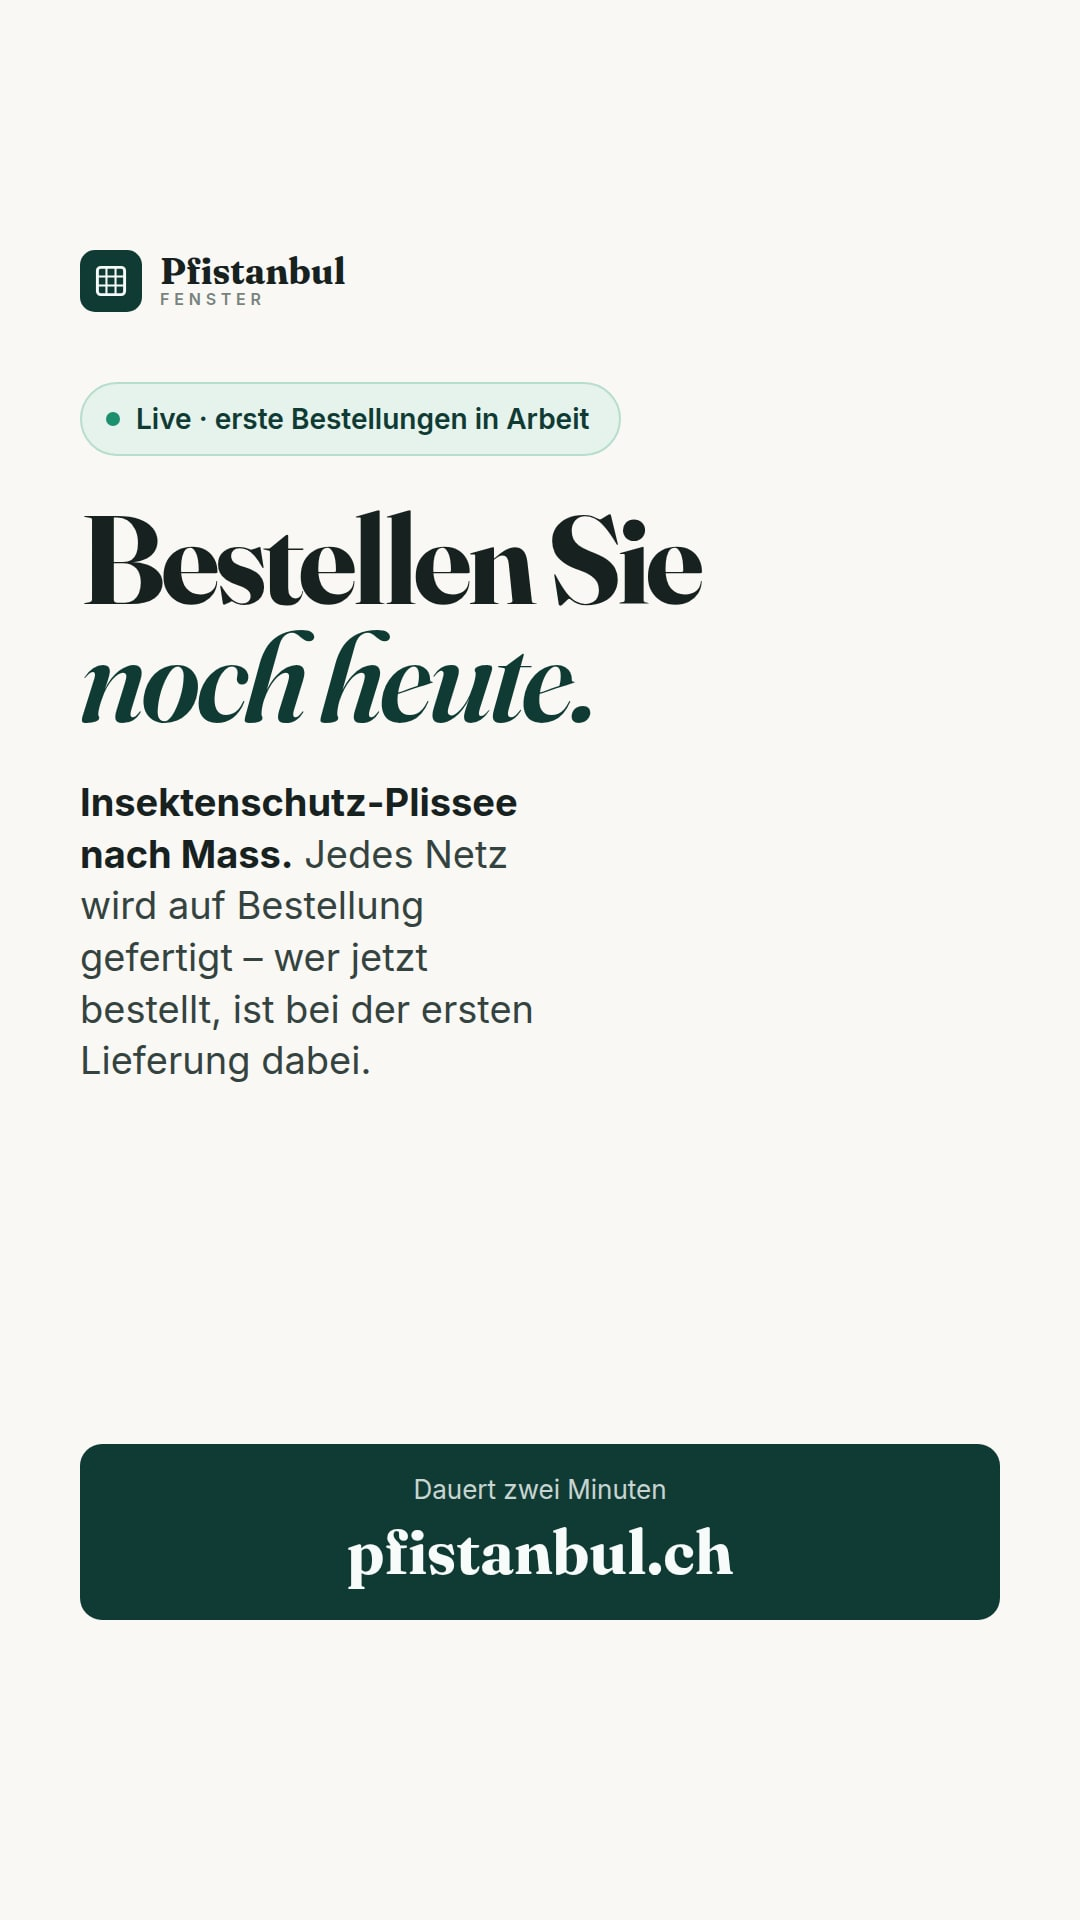
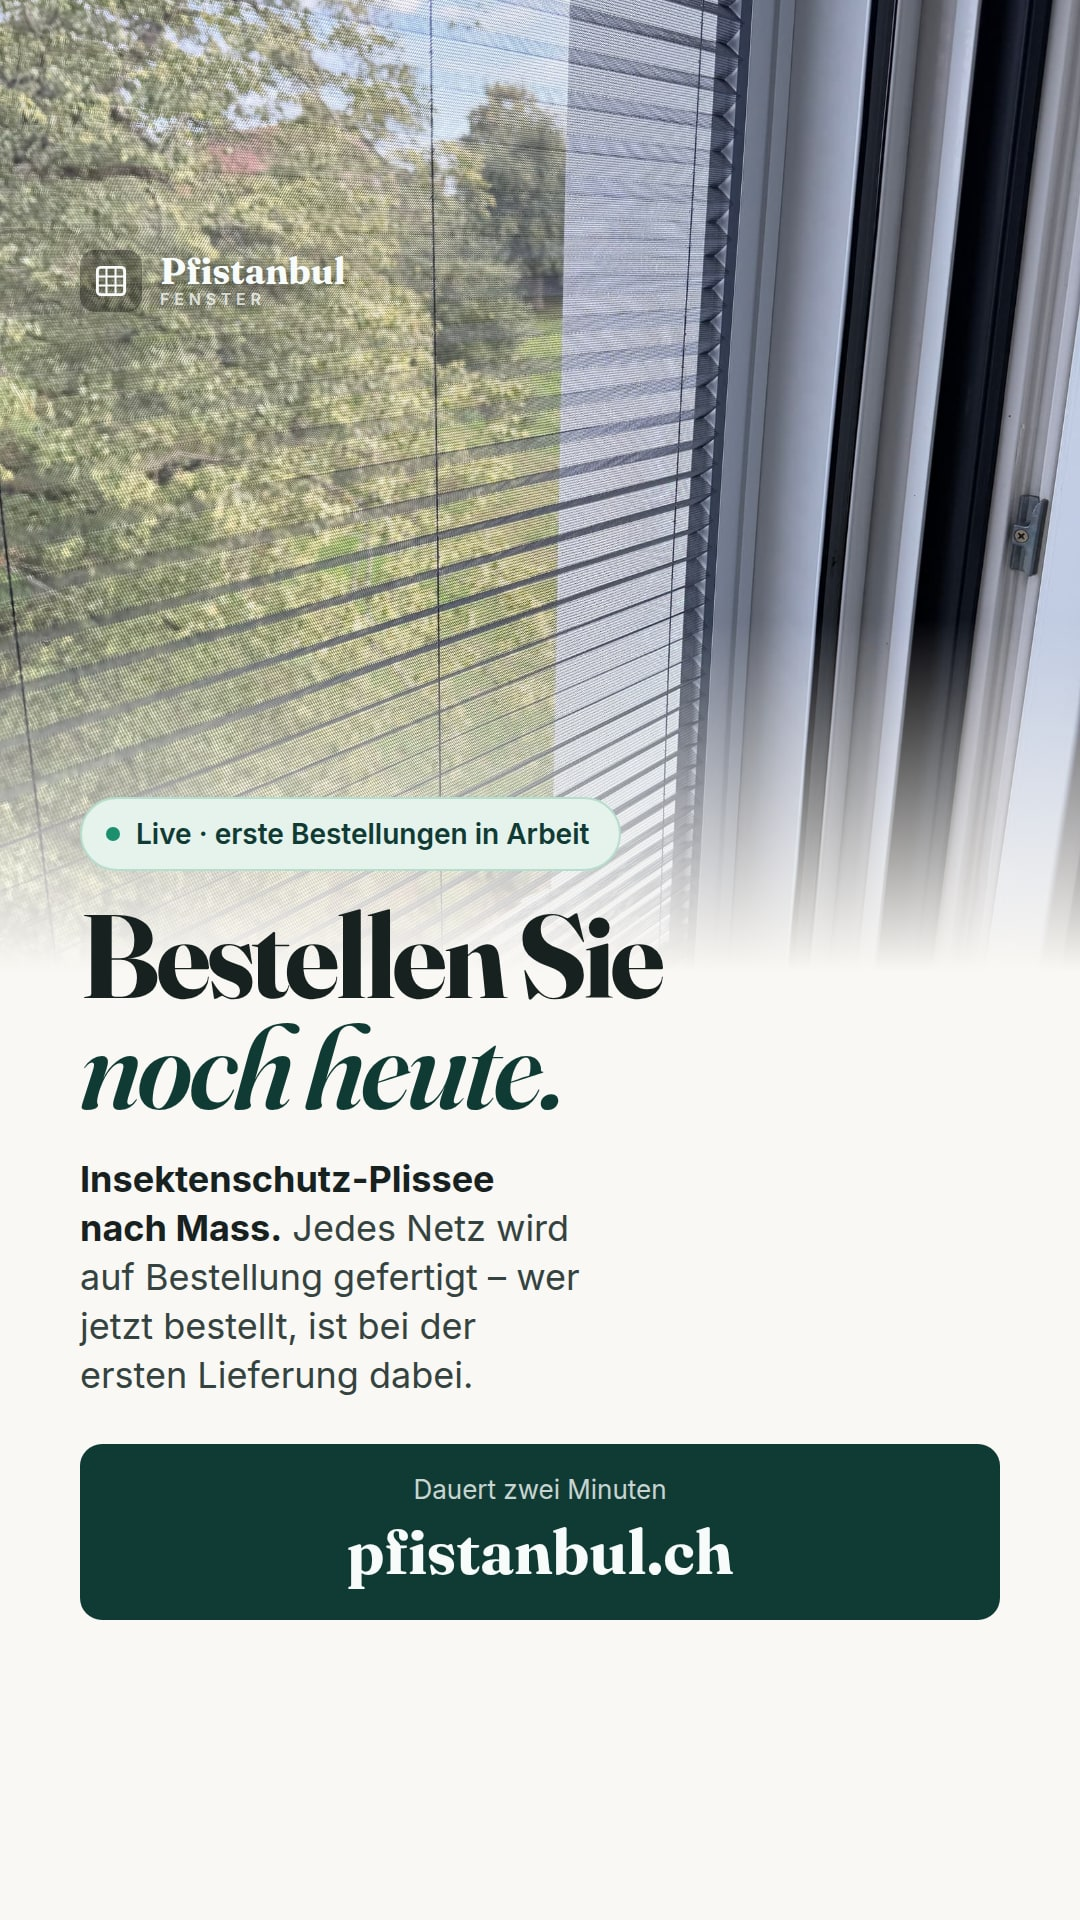
Story "Bestellen Sie noch heute" mit Gewebeaufnahme
Ohne Bild ist bis zur dritten Zeile unklar, wovon die Rede ist - der
Kontoname sagt niemandem etwas. Die Makroaufnahme laeuft nach unten in
den hellen Grund aus, damit die Schrift auf ruhiger Flaeche steht; ein
harter Schnitt wuerde die Seite halbieren.

Claude-Session: https://claude.ai/code/session_01UiUFn7ykifp8b7M2ApYf3F

diff --git a/instagram/heute-bestellen.html b/instagram/heute-bestellen.html
@@ -3,32 +3,48 @@
 <link rel="stylesheet" href="story.css">
 <style>
 /*
- * Dieselbe Botschaft, nur ohne Foto: die Aufforderung ganz gross und sonst
- * nichts. Zwischen zwei Fotostories eine optische Pause - drei Bilder
- * hintereinander verwischen sonst zu einem.
+ * Die Aufforderung als Schlagzeile, darueber die Gewebeaufnahme.
  *
- * Die Statuszeile oben traegt "wir sind live" und "erste Bestellungen laufen"
- * in einer Zeile, damit die Schlagzeile die Aufforderung sein kann und nicht
- * die Ankuendigung. DIE ZEILE MUSS STIMMEN.
+ * Das Foto ist nicht Schmuck: der Kontoname sagt niemandem etwas, und ohne
+ * Bild waere bis zur dritten Zeile unklar, wovon die Rede ist. Die
+ * Makroaufnahme zeigt das Produkt aus der Naehe, ohne Wohnzimmer und ohne
+ * Menschen - sie traegt die Aussage, statt von ihr abzulenken.
+ *
+ * Das Foto laeuft nach unten in den hellen Grund aus, damit die Schrift auf
+ * ruhiger Flaeche steht. Ein harter Schnitt wuerde die Seite in zwei
+ * Haelften teilen; der Verlauf haelt sie zusammen.
+ *
+ * Die Statuszeile oben traegt "wir sind live" und "erste Bestellungen
+ * laufen", damit die Schlagzeile die Aufforderung sein kann und nicht die
+ * Ankuendigung. DIE ZEILE MUSS STIMMEN: Sobald die erste Lieferung draussen
+ * ist, gehoert sie umgeschrieben.
  */
-.blatt { background: #faf8f4; color: #17211f; }
-.marke__zeichen { background: #0f3b34; color: #f7fbf9; }
-.marke__zusatz { color: #4d5b57; }
-.status { margin-top: 70px; align-self: flex-start; display: flex; align-items: center; gap: 16px;
+.blatt { position: relative; padding: 0; background: #faf8f4; color: #17211f; overflow: hidden; }
+.foto { position: absolute; inset: 0 0 auto 0; height: 1020px; }
+.foto img { width: 100%; height: 100%; object-fit: cover; object-position: center 50%; }
+.foto::after { content: ''; position: absolute; inset: auto 0 0 0; height: 400px;
+               background: linear-gradient(to bottom, rgba(250,248,244,0), #faf8f4 88%); }
+.inhalt { position: relative; height: 100%; padding: 250px 80px 300px; display: flex; flex-direction: column; }
+.marke__zeichen { background: rgba(0,0,0,.34); color: #f7fbf9; }
+.marke { color: #f7fbf9; text-shadow: 0 2px 14px rgba(0,0,0,.5); }
+.status { margin-top: auto; align-self: flex-start; display: flex; align-items: center; gap: 16px;
           padding: 18px 30px 18px 24px; border-radius: 100px;
           background: #e6f2ec; border: 2px solid #b7ddcd;
           font-size: 28px; font-weight: 600; color: #0f3b34; }
 .status span { flex: none; width: 14px; height: 14px; border-radius: 50%; background: #1c8f6e; }
-h1 { margin-top: 44px; font-size: 126px; }
+h1 { margin-top: 30px; font-size: 118px; }
 h1 em { color: #0f3b34; }
-.satz { margin-top: 40px; font-size: 38px; line-height: 1.36; color: #34433f; max-width: 20ch; }
+.satz { margin-top: 32px; font-size: 36px; line-height: 1.36; color: #34433f; max-width: 22ch; }
 .satz b { color: #17211f; }
-.band { background: #0f3b34; color: #f7fbf9; }
+.band { margin-top: 44px; background: #0f3b34; color: #f7fbf9; }
 </style></head><body><div class="blatt">
-  <div class="marke"><span class="marke__zeichen"><svg width="34" height="34" viewBox="0 0 300 300"><rect x="30" y="30" width="240" height="240" rx="30" fill="none" stroke="currentColor" stroke-width="26"/><path d="M30 110H270M30 190H270M110 30V270M190 30V270" stroke="currentColor" stroke-width="18" stroke-linecap="round"/></svg></span>
-    <span><span class="marke__name">Pfistanbul</span><br><span class="marke__zusatz">Fenster</span></span></div>
-  <p class="status"><span></span>Live · erste Bestellungen in Arbeit</p>
-  <h1>Bestellen Sie<em>noch heute.</em></h1>
-  <p class="satz"><b>Insektenschutz-Plissee nach Mass.</b> Jedes Netz wird auf Bestellung gefertigt – wer jetzt bestellt, ist bei der ersten Lieferung dabei.</p>
-  <div class="band"><span class="band__was">Dauert zwei Minuten</span><span class="band__wo">pfistanbul.ch</span></div>
+  <figure class="foto"><img src="../public/fotos/gewebe-detail-1600.jpg" alt=""></figure>
+  <div class="inhalt">
+    <div class="marke"><span class="marke__zeichen"><svg width="34" height="34" viewBox="0 0 300 300"><rect x="30" y="30" width="240" height="240" rx="30" fill="none" stroke="currentColor" stroke-width="26"/><path d="M30 110H270M30 190H270M110 30V270M190 30V270" stroke="currentColor" stroke-width="18" stroke-linecap="round"/></svg></span>
+      <span><span class="marke__name">Pfistanbul</span><br><span class="marke__zusatz">Fenster</span></span></div>
+    <p class="status"><span></span>Live · erste Bestellungen in Arbeit</p>
+    <h1>Bestellen Sie<em>noch heute.</em></h1>
+    <p class="satz"><b>Insektenschutz-Plissee nach Mass.</b> Jedes Netz wird auf Bestellung gefertigt – wer jetzt bestellt, ist bei der ersten Lieferung dabei.</p>
+    <div class="band"><span class="band__was">Dauert zwei Minuten</span><span class="band__wo">pfistanbul.ch</span></div>
+  </div>
 </div></body></html>

diff --git a/instagram/LIESMICH.md b/instagram/LIESMICH.md
@@ -234,9 +234,13 @@ dritte ein leerer Kreis mit „Ihr Insektenschutz nach Mass". Eine offene Zeile
 am Ende einer sonst erledigten Liste zieht den Blick – man will sie schliessen.
 
 ### `story-heute-bestellen.jpg`
-Dieselbe Botschaft ohne Foto, cremefarben. Der Status steht oben in einer
-Zeile, damit die Schlagzeile die **Aufforderung** sein kann und nicht die
-Ankuendigung. Zwischen zwei Fotostories eine optische Pause.
+Heller Grund, oben die Gewebeaufnahme, die nach unten in den Grund auslaeuft.
+Der Status steht in einer Zeile darunter, damit die Schlagzeile die
+**Aufforderung** sein kann und nicht die Ankuendigung.
+
+Das Foto ist nicht Schmuck: Der Kontoname sagt niemandem etwas, ohne Bild
+waere bis zur dritten Zeile unklar, wovon die Rede ist. Der Verlauf statt
+eines harten Schnitts haelt die Seite zusammen, statt sie zu halbieren.
 
 ### `story-es-laeuft.jpg`
 Ganzflaechiges Foto mit dunklem Schleier, Text in der Mitte. Wirkt im
